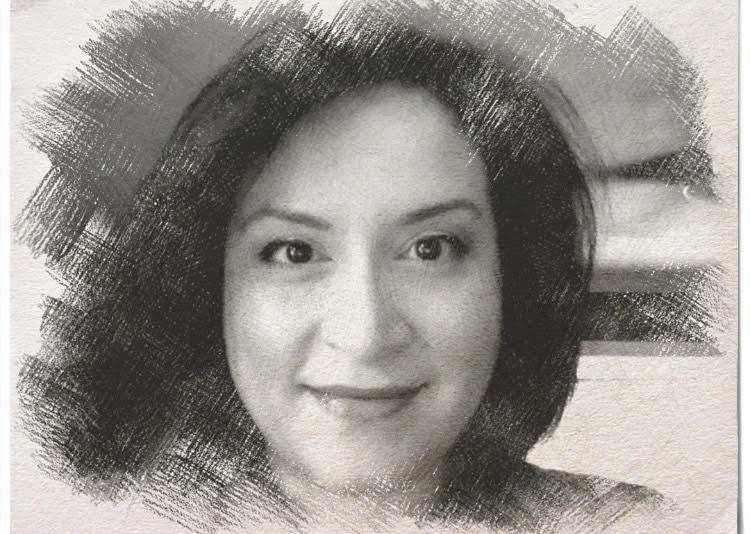
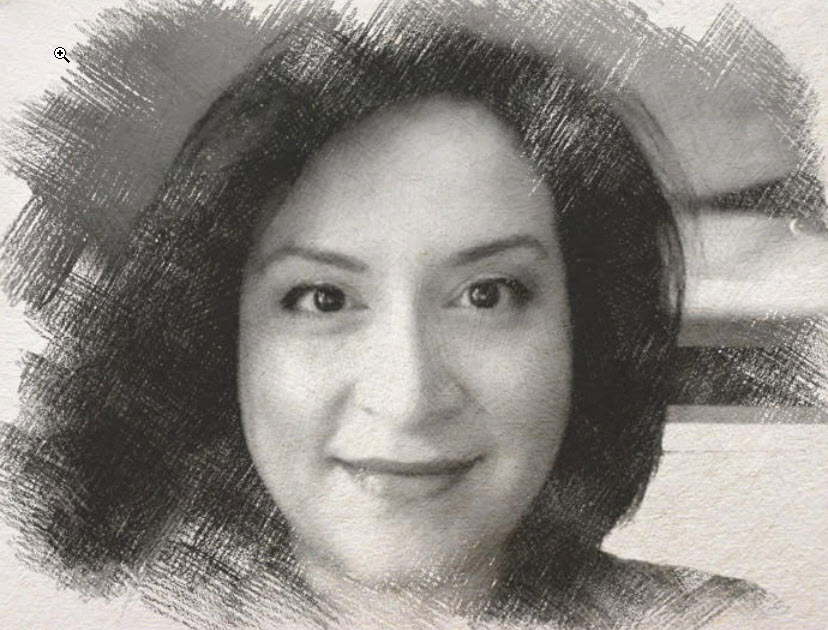
updating images and resume links

diff --git a/src/portfolioData.js b/src/portfolioData.js
@@ -4,11 +4,13 @@ import budgetTrackerImage from"./assets/budgetTracker.jpg"
 import weatherDashboardImage from"./assets/weatherDashboard.jpg"
 import workDaySchedulerImage from"./assets/workDaySched.jpg"
 import webApiQuizImage from"./assets/apiQuiz.jpg"
+import lindaImage from"./assets/linda.jpg"
+
 
 export default([
   {
     "id": 1,
-    "name": "hero app",
+    "name": "Hero App",
     "image": heroAppImage,
     "github": "https://github.com/lindamart/Interactive_FrontEnd_HeroApp",
     "deploy": "https://lindamart.github.io/Interactive_FrontEnd_HeroApp//",
@@ -16,7 +18,7 @@ export default([
   },
   {
     "id": 2,
-    "name": "tech blog",
+    "name": "Tech Blog",
     "image": techBlogImage,
     "github": "https://github.com/lindamart/tech-blog",
     "deploy": "https://tech-blog-lmart.herokuapp.com/",
@@ -24,7 +26,7 @@ export default([
   },
   {
     "id": 3,
-    "name": "budget tracker",
+    "name": "Budget Tracker",
     "image": budgetTrackerImage,
     "github": "https://github.com/lindamart/offline_budget_tracker",
     "deploy": "https://pwaoffline-budget-tracker.herokuapp.com/",
@@ -32,24 +34,24 @@ export default([
   },
   {
     "id": 4,
-    "name": weatherDashboardImage,
-    "image": "assets/weatherDashboard.png",
+    "name": "Weather Dashboard",
+    "image": weatherDashboardImage,
     "github": "https://github.com/lindamart/server_side_api_weather_dashboard",
     "deploy": "https://lindamart.github.io/server_side_api_weather_dashboard/",
     "topics": "javascript, jQuery, html, bootstrap, moment, API"
   },
   {
     "id": 5,
-    "name": workDaySchedulerImage,
-    "image": "assets/workDaySched.jpg",
+    "name": "Work Day Scheduler",
+    "image": workDaySchedulerImage,
     "github": "https://github.com/lindamart/third_party_api_workdayscheduler",
     "deploy": "https://lindamart.github.io/third_party_api_workdayscheduler/",
     "topics": "HTML, Javascript, Bootstrap, CSS, jQuery, Moment"
   },
   {
     "id": 6,
-    "name": webApiQuizImage,
-    "image": "assets/apiQuiz.jpg",
+    "name": "Web API Quiz Image",
+    "image": webApiQuizImage,
     "github": "https://github.com/lindamart/web-api-code-quiz",
     "deploy": "https://lindamart.github.io/web-api-code-quiz/",
     "topics": "javascript, jQuery, html, bootstrap, moment, API"

diff --git a/src/components/about.js b/src/components/about.js
@@ -1,15 +1,16 @@
 import React from 'react';
-
+import resume from "../assets/lindaResume.pdf"
+import image from "../assets/linda.jpg"
 
 function About() {
   return (
     <section className="title">
-      <h1 class="name">about: Linda Martinez</h1>
+      <h1 class="name">About Linda Martinez</h1>
       <hr></hr>
 
       <div className="row justify-content-center">
         <div className="col-10" id="about-section">
-        <img class="mb-5" src="linda.jpg" alt="Linda Martinez"/>
+        <img className='mypic' src={image} alt="Logo" />
 
           <p>After years in the life insurance industry I was given the assignment to help create a new system for our
             new applications and at that moment I was hooked. Every time I had the opportunity I took advantage of any
@@ -19,9 +20,9 @@ function About() {
             such as Computer Science fundamentals, Javascript, ReactJS, Redux, VueJS, Vuex, NodeJS, MongoDB, CSS,
             HTML and other technologies. I am still eagerly learning additional
             languages to broaden my coding abilities.</p>
-          {/* // how do is import resume???? */}
+            
           <p>
-            View full <a href="#/resume" class="link">resume</a>
+            View full <a href={resume} class="link">resume</a>
           </p>
         </div>
       </div>

diff --git a/src/components/footer.js b/src/components/footer.js
@@ -1,4 +1,5 @@
 import React from 'react';
+import resume from "../assets/lindaResume.pdf"
 
 function Footer() {   
     return (
@@ -6,7 +7,7 @@ function Footer() {
         <a href="https://github.com/lindamart"><img src="https://img.icons8.com/color/48/000000/github-2.png" alt="Github" class="icon"/></a>
         <a href="https://www.linkedin.com/sharing/share-offsite/?url=www.in.com/in/linda-m-319246217"><img src="https://img.icons8.com/color/48/000000/linkedin.png" alt="LinkedIn" class="icon"/></a>
         <p>
-        &copy; Linda Martinez  |  <a href="addresume???????.pdf" class="link">download resume</a>  |  <a href="https://coolors.co/f06543-e8e9eb-e0dfd5-313638-f09d51">color palette</a>  |  made with <img id="react-icon" src="https://img.icons8.com/color/48/000000/react-native.png" alt="React"/>
+        &copy; Linda Martinez  |  <a href={resume} class="link">download resume</a>  |  <a href="https://coolors.co/f06543-e8e9eb-e0dfd5-313638-f09d51">color palette</a>  |  made with <img id="react-icon" src="https://img.icons8.com/color/48/000000/react-native.png" alt="React"/>
         </p>
 
     </div>

diff --git a/src/components/resume.js b/src/components/resume.js
@@ -5,14 +5,14 @@ function Resume() {
 
     return (
         <section class="mb-5">
-            <h1 className="resume">Resume: Linda Martinez</h1>
+            <h1 className="resume">Linda Martinez</h1>
             <hr></hr>
             <div class="row justify-content-center" id="resume">
                 <div class="mt-5 pl-5 pr-5">
-                    Trainer, Tester and full stack developer with experience Computer Science fundamentals other technologies.
+                    
 
                     <p class="mt-5">
-                        <a href="www.linkedin.com/in/linda-m-319246217"><img src="https://img.icons8.com/color/48/000000/linkedin-2.png" alt="LindaM LinkedIn" /></a>
+                    Trainer, Tester and full stack developer with experience Computer Science fundamentals other technologies.
                     </p>
                     <p>
                         Download my full <a href={resume} class="link">resume</a>

diff --git a/src/components/contact.js b/src/components/contact.js
@@ -38,7 +38,7 @@ function ContactForm() {
 
 return (
     <section class="justify-content-center" id="contact-section">
-        <h1 data-testid='h1tag' className="contact">contact: Linda Martinez</h1>
+        <h1 data-testid='h1tag' className="contact">Contact Linda Martinez</h1>
         <hr></hr>
         <form class="justify-content-center" id="contact-form">
             <div>

diff --git a/src/index.css b/src/index.css
@@ -83,7 +83,11 @@ h1 {
   background-color: var(--platinum);
 }
 
-.card .img-container img {
+.mypic {
+  height: 30%;
+}
+
+.card .img-container img  {
   width: 100%;
   padding: 25px;
   margin-bottom: 20px;
